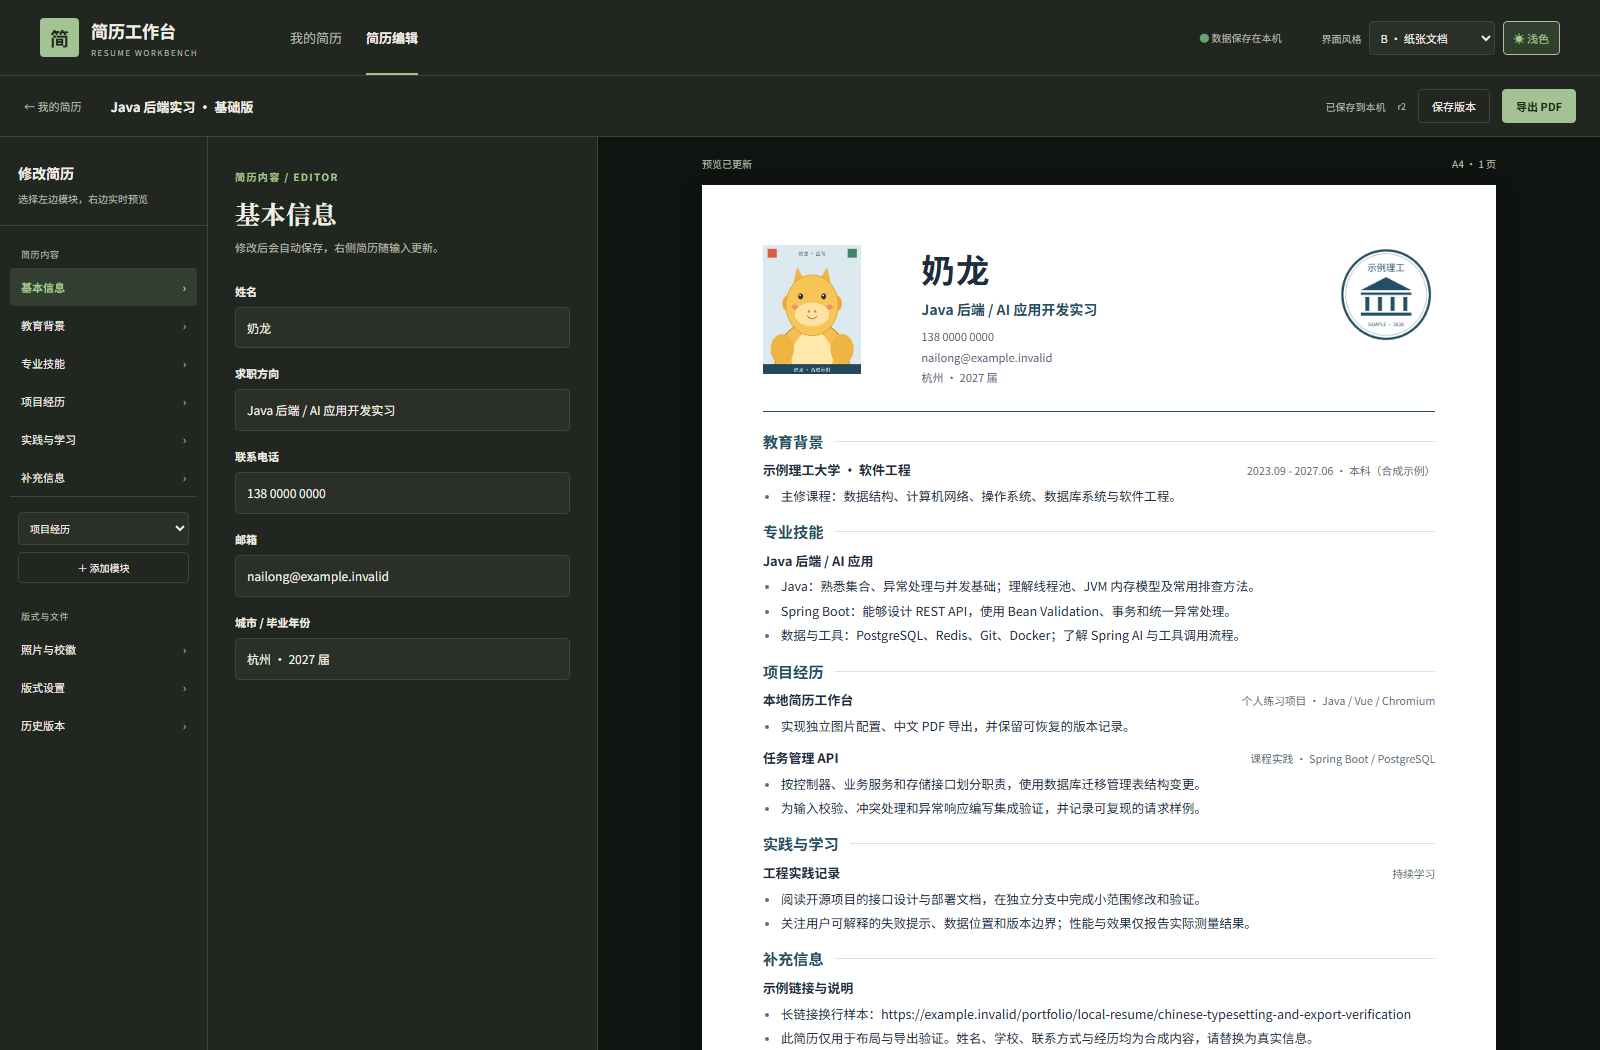
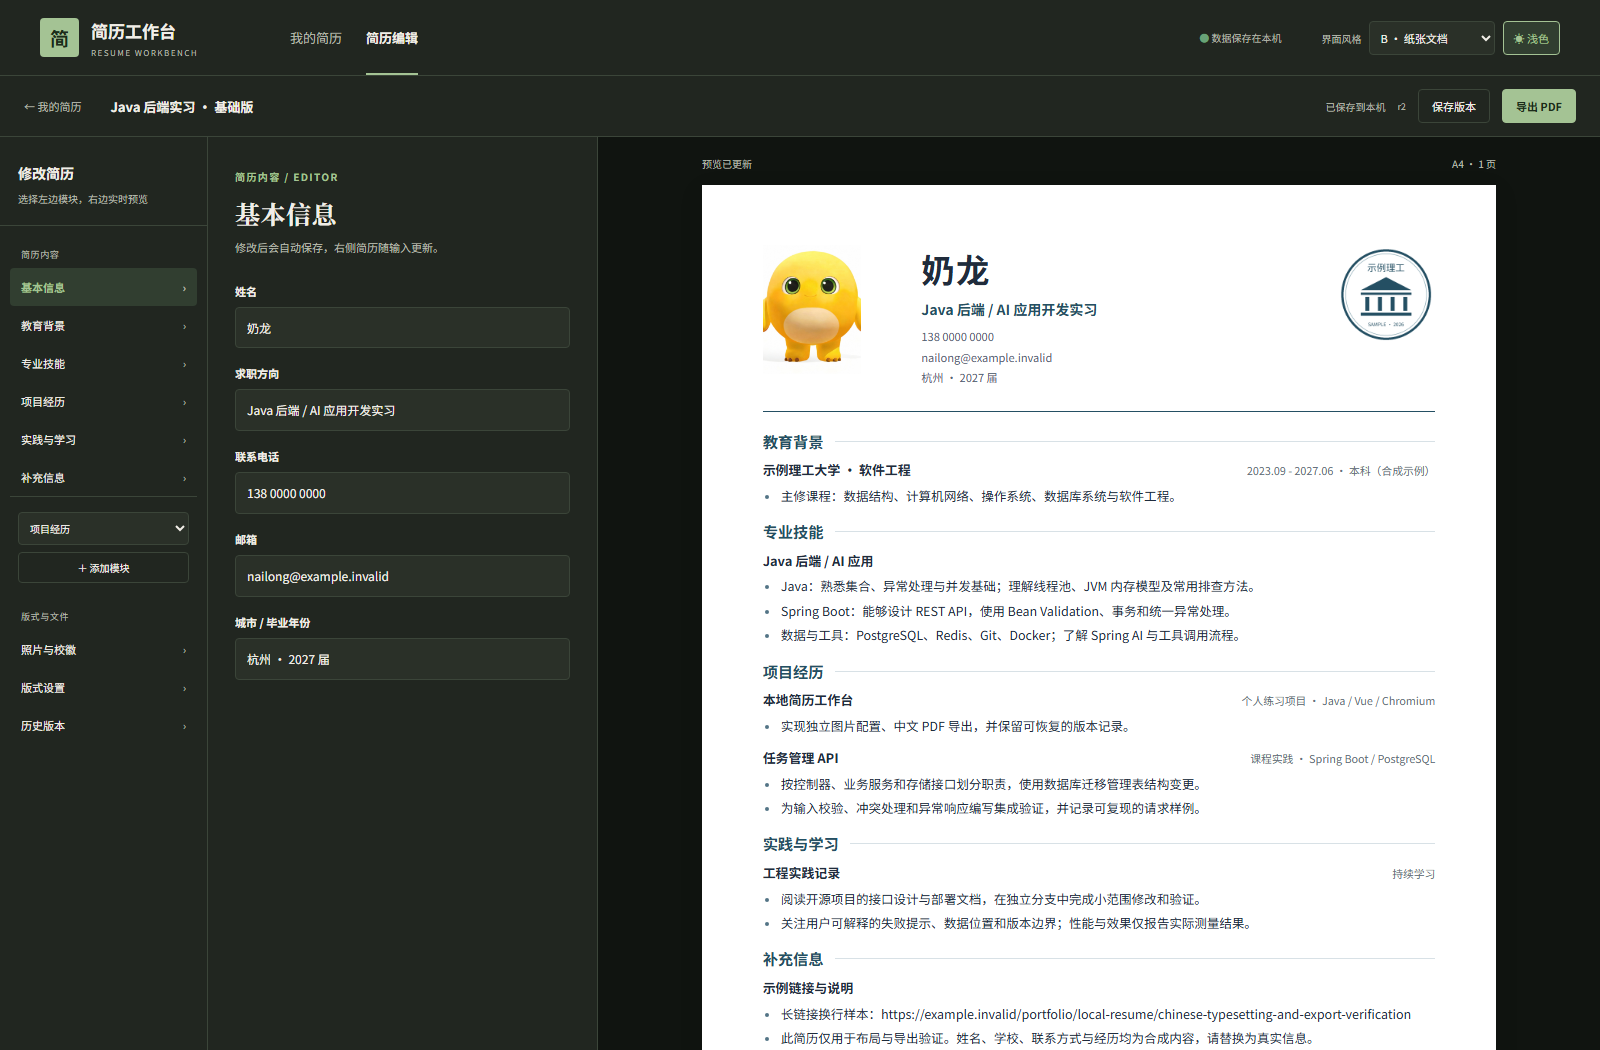
fix(samples): use supplied NAILONG portrait unchanged

Changed region(s): [[0.4688, 0.2133, 0.5625, 0.3657]]

diff --git a/frontend/tests/stage-b.spec.ts b/frontend/tests/stage-b.spec.ts
@@ -1,5 +1,6 @@
 import { test, expect, type Page, type APIRequestContext } from '@playwright/test';
 import fs from 'node:fs/promises';
+import {createHash} from 'node:crypto';
 import path from 'node:path';
 const root=path.resolve(import.meta.dirname,'../..'), headers={'X-Local-Resume':'1'};
 let created:string[]=[];
@@ -80,6 +81,10 @@ test('both templates export searchable one/two-page PDFs with local images and f
  await fs.mkdir(path.join(root,'output/pdf'),{recursive:true});
  for(const template of ['classic','banner'])for(const sample of ['one','two']){
   let resume=await create(request,sample);resume.document.layout.template=template;resume.document.layout.font=template==='banner'?'serif':'sans';
+  const avatar=await (await request.get('/api/assets/'+resume.document.layout.photo.id)).json();
+  const source=await fs.readFile(path.join(root,'src/main/resources/static/samples/nailong-portrait.png'));
+  expect(avatar.format).toBe('PNG');expect([avatar.sourceWidth,avatar.sourceHeight]).toEqual([690,930]);
+  expect(avatar.sha256).toBe(createHash('sha256').update(source).digest('hex'));
   const put=await request.put('/api/resumes/'+resume.id,{headers,data:{title:resume.title,document:resume.document,expectedRevision:resume.revision,mutationId:crypto.randomUUID()}});expect(put.ok()).toBeTruthy();resume=await put.json();
   const preview=await (await request.post('/api/documents/preview',{headers,data:resume.document})).json();await page.goto(preview.url);
   await page.waitForFunction(()=>((window as any).__resumeReady || (window as any).__resumeError));expect(await page.evaluate(()=>(window as any).__resumeError)).toBeUndefined();await expect(page.locator('.sheet')).toHaveCount(sample==='one'?1:2);

diff --git a/src/main/java/dev/localresume/ResumeController.java b/src/main/java/dev/localresume/ResumeController.java
@@ -29,7 +29,7 @@ public class ResumeController {
         if(doc==null) {
             doc=ResumeDocument.sample(input.sample()==null ? "blank" : input.sample());
             if(input.sample()!=null && !input.sample().equals("blank")) {
-                var p=images.importImage(new ClassPathResource("static/samples/portrait-exif-6.jpg").getContentAsByteArray());
+                var p=images.importImage(new ClassPathResource("static/samples/nailong-portrait.png").getContentAsByteArray());
                 var l=images.importImage(new ClassPathResource("static/samples/university-logo.png").getContentAsByteArray());
                 var layout=doc.layout();
                 doc=new ResumeDocument(2,doc.content(),new ResumeDocument.Layout(layout.template(),layout.font(),layout.fontSize(),layout.lineHeight(),layout.sectionGapMm(),layout.marginMm(),false,

diff --git a/scripts/generate-fixtures.py b/scripts/generate-fixtures.py
@@ -58,6 +58,6 @@ portrait.transpose(Image.Transpose.ROTATE_90).save(OUT / "portrait-exif-6.jpg", 
 (OUT / "unsupported.svg").write_text('<svg xmlns="http://www.w3.org/2000/svg"><rect width="8" height="8"/></svg>', encoding="utf-8")
 samples = ROOT / "src/main/resources/static/samples"
 samples.mkdir(parents=True, exist_ok=True)
-for name in ("university-logo.png", "portrait-exif-6.jpg"):
+for name in ("university-logo.png",):
     shutil.copyfile(OUT / name, samples / name)
 for f in sorted(OUT.iterdir()): print(f.name, f.stat().st_size)

diff --git a/README.md b/README.md
@@ -13,7 +13,7 @@
 - 正文支持段落、项目列表和 `**加粗**`。输入 HTML 会作为文字显示，不接受任意 HTML/CSS。
 - 编辑页左侧选模块、中间填写内容、右侧实时预览。界面可选蓝白工具或纸张文档风格，并能独立切换深色模式；选择保存在本机浏览器。PDF 模板仍可独立选择经典单栏或并列页眉。
 - 两张图片可以独立替换、隐藏、移除、调整尺寸、旋转和裁剪。
-- 新建示例使用“奶龙”作为姓名与卡通证件照；保留一张独立的虚构学校 Logo。已有简历的内容不会被模板更新覆盖。
+- 新建示例使用“奶龙”作为姓名和你提供的证件照原图；保留一张独立的虚构学校 Logo。已有简历的内容不会被模板更新覆盖。
 - 本地黑体 / 宋体，字号 9–12 pt、行距 1.3–1.85、模块间距 2–8 mm、页边距 12–22 mm。
 - 700 ms 防抖自动保存，串行写入；数据库确认后才显示“已保存到本机”。失败可重试或另存副本，修订冲突不覆盖其他页面。
 - 手动版本快照和恢复；恢复前自动保留当前版本。导出时记录固定修订的版本快照。
@@ -119,4 +119,4 @@ JDK 21 / Spring Boot 3.5.16 / PostgreSQL 16.10 / Flyway / Playwright Java 1.63.0
 - 分页按条目 / 段落边界切分，最多 10 页；超长单条内容会拒绝导出。不是通用文字处理器，也不提供任意画布。
 - 黑体和宋体均本地嵌入，修复共享字形的 Unicode 反向映射；不承诺所有 ATS 系统兼容。
 
-字体、来源散列与许可见 [THIRD_PARTY_NOTICES.md](THIRD_PARTY_NOTICES.md)。原创代码与合成样本采用 MIT。当前提供阶段 A/B 的源码开发版，发布镜像和正式版本尚未交付。
+字体、来源散列与许可见 [THIRD_PARTY_NOTICES.md](THIRD_PARTY_NOTICES.md)。原创代码和脚本绘制的合成素材采用 MIT；用户提供的示例证件照不在此许可范围内。当前提供阶段 A/B 的源码开发版，发布镜像和正式版本尚未交付。

diff --git a/docs/stage-b-verification.md b/docs/stage-b-verification.md
@@ -1,8 +1,8 @@
 # 阶段 B 验收记录
 
-**示例更新（2026-09-27）**：当前新建示例的姓名、邮箱和卡通证件照已统一为“奶龙”。此页下方的早期字节数与 PDF 散列保留为当时的历史记录；更新后的机器报告位于 `output/pdf-verification-stage-b.json`。
+**示例更新（2026-09-27）**：当前新建示例的姓名、邮箱已统一为“奶龙”，证件照使用用户提供的 PNG 原图。此页下方的早期字节数与 PDF 散列保留为当时的历史记录；更新后的机器报告位于 `output/pdf-verification-stage-b.json`。
 
-更新后的图片由 `scripts/generate-fixtures.py` 直接绘制，并继续提供 JPEG、透明校徽和 EXIF=6 的测试样本。新证件照 JPEG 为 22,178 字节。复验结果：22 项后端测试、8 组端到端测试全部通过；经典单栏与并列页眉各导出一页、两页 PDF，均保留可提取的“奶龙”与正确阅读顺序，照片方向和布局逐页检查通过。当前展示截图是 `docs/workbench.png`、`docs/workbench-editor.png`、`docs/workbench-dark.png`。已保存的简历与历史版本保留用户原有内容。
+用于 EXIF 验证的 JPEG 仍由 `scripts/generate-fixtures.py` 绘制，与默认示例使用的图片分开；原图、透明校徽和 EXIF=6 测试继续覆盖图片链路。复验结果：22 项后端测试、8 组端到端测试全部通过；经典单栏与并列页眉各导出一页、两页 PDF，均保留可提取的“奶龙”与正确阅读顺序，照片方向和布局逐页检查通过。当前展示截图是 `docs/workbench.png`、`docs/workbench-editor.png`、`docs/workbench-dark.png`。已保存的简历与历史版本保留用户原有内容。
 
 执行日期：2026-09-27。分支：`codex/stage-b`。基于阶段 A 的图片与中文字体验证，交付可编辑、可保存、可恢复的本地简历流程。
 
